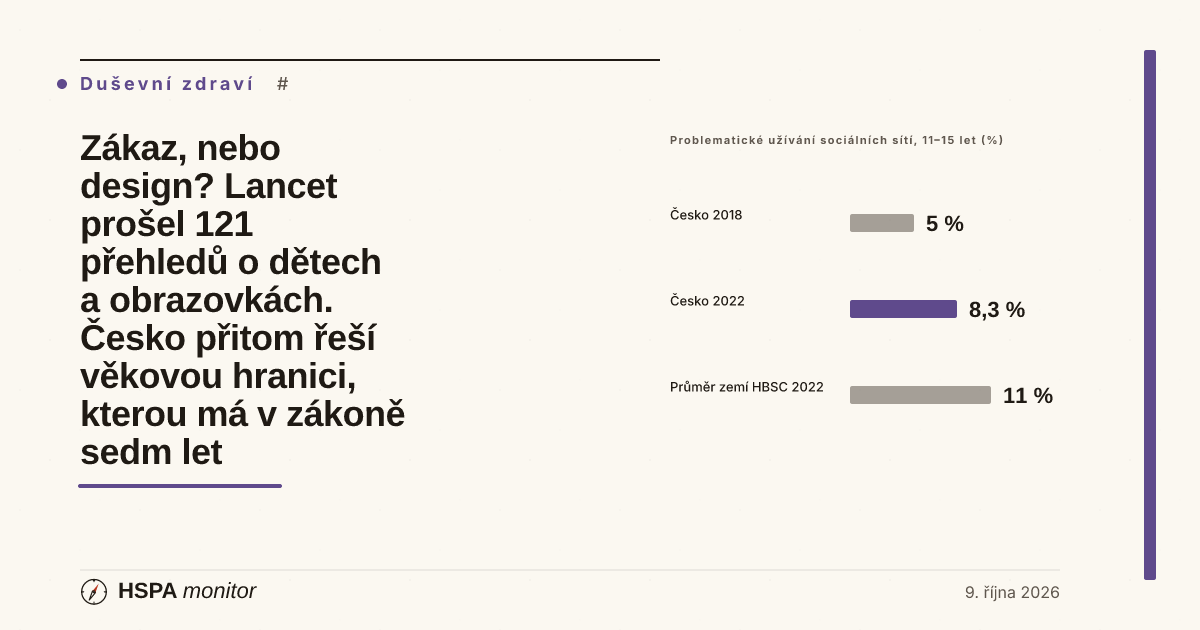
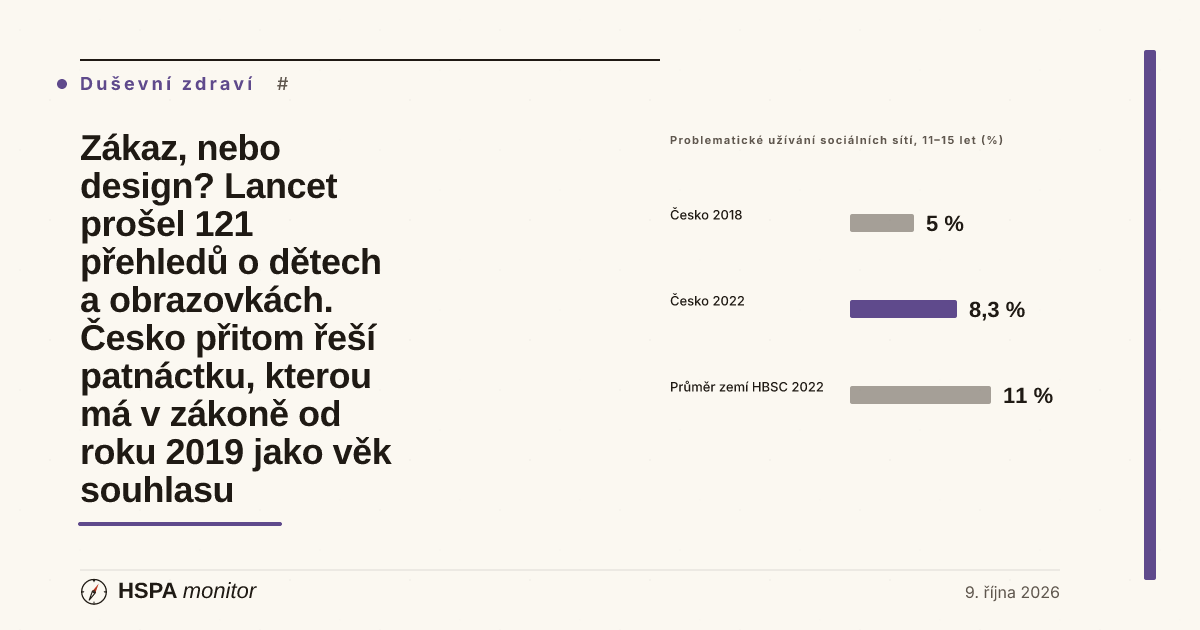
fix(clanky): lancet-ddoh — § 7 zák. 110/2019 je věk souhlasu se zpracováním dat (čl. 8 GDPR), ne zákaz účtů; přeformulován titulek, perex, lead, karta Česka, kapitola a callout (Codex P1)
Claude-Session: https://claude.ai/code/session_01Bu5UdFBsJ6Byh8NpgdnbK7

Changed region(s): [[0.0617, 0.573, 0.3392, 0.8444]]

diff --git a/05_M1_Starter/clanek-lancet-digitalni-determinanty-deti-zakaz-site-2026.html b/05_M1_Starter/clanek-lancet-digitalni-determinanty-deti-zakaz-site-2026.html
@@ -3,12 +3,12 @@
 <head>
 <meta charset="UTF-8">
 <meta name="viewport" content="width=device-width, initial-scale=1.0">
-<title>Zákaz, nebo design? Lancet prošel 121 přehledů o dětech a obrazovkách. Česko přitom řeší věkovou hranici, kterou má v zákoně sedm let · HSPA Monitor</title>
-<meta name="description" content="Série Lancetu o digitálních determinantách zdraví (4. 10. 2026) prošla 121 přehledů nad zhruba devíti miliony lidí do 25 let a říká: problém není čas u obrazovky, ale návykový design, a odpověď má být strukturální. Česká debata mezitím běží o zákazu do 15 let podle Francie, jejíž zákaz 14. srpna zrušila Ústavní rada. Hranici 15 let má Česko v zákoně od roku 2019, jen se nevymáhá. Co říkají česká data HBSC a indikátory HSPA Monitoru.">
+<title>Zákaz, nebo design? Lancet prošel 121 přehledů o dětech a obrazovkách. Česko přitom řeší patnáctku, kterou má v zákoně od roku 2019 jako věk souhlasu · HSPA Monitor</title>
+<meta name="description" content="Série Lancetu o digitálních determinantách zdraví (4. 10. 2026) prošla 121 přehledů nad zhruba devíti miliony lidí do 25 let a říká: problém není čas u obrazovky, ale návykový design, a odpověď má být strukturální. Česká debata mezitím běží o zákazu do 15 let podle Francie, jejíž zákaz 14. srpna zrušila Ústavní rada. Věk 15 let má Česko v zákoně od roku 2019 jako hranici souhlasu se zpracováním dat, ne jako zákaz účtů, a ani tu nikdo neověřuje. Co říkají česká data HBSC a indikátory HSPA Monitoru.">
 <meta name="robots" content="noindex, follow">
 <meta property="og:type" content="article">
-<meta property="og:title" content="Zákaz, nebo design? Lancet prošel 121 přehledů o dětech a obrazovkách. Česko přitom řeší věkovou hranici, kterou má v zákoně sedm let">
-<meta property="og:description" content="Lancet: problém není čas u obrazovky, ale návykový design. Francie zákaz do 15 let přijala a Ústavní rada ho zrušila. EU navrhla KIDS Act. Česko má hranici 15 let od roku 2019 a nevymáhá ji. Co říkají česká data.">
+<meta property="og:title" content="Zákaz, nebo design? Lancet prošel 121 přehledů o dětech a obrazovkách. Česko přitom řeší patnáctku, kterou má v zákoně od roku 2019 jako věk souhlasu">
+<meta property="og:description" content="Lancet: problém není čas u obrazovky, ale návykový design. Francie zákaz do 15 let přijala a Ústavní rada ho zrušila. EU navrhla KIDS Act. Česko má od roku 2019 věk souhlasu 15 let, ne zákaz, a ani ten neověřuje. Co říkají česká data.">
 <meta property="og:locale" content="cs_CZ">
 <meta property="article:published_time" content="2026-10-09">
 <meta property="article:section" content="Duševní zdraví">
@@ -20,7 +20,7 @@
     creation_phase: zadani-uzivatele (vlastník poslal odkaz na sérii Lancetu s tím, že by mohla Florence zajímat v kontextu české debaty o regulaci digitálního prostředí pro děti; po návrhu úhlu zadal „Napiš to hned“)
     primary_sources_added: 12
     visual_elements_added: 5
-    notes: "PRIMÁRNÍ ZDROJE ověřeny 2026-10-09. LANCET: čtyři texty série (4. 10. 2026) ověřeny v PubMed — Shaw et al. PMID 42830093 DOI 10.1016/S0140-6736(26)01292-4; Holly et al. PMID 42830095 DOI 10.1016/S0140-6736(26)01611-9; Prainsack et al. PMID 42830094 DOI 10.1016/S0140-6736(26)01293-6; Duffourc PMID 42830092 DOI 10.1016/S0140-6736(26)01986-0 (abstrakty čteny; plné texty za paywallem — stránka Lancetu vrací 403). Čísla 121 přehledů / ~9 mil. do 25 let, ilustrativní modelace 2,8 mil. zdravých let ztracených depresí a 240 tis. obezitou při > 2 h denně, citace Kickbusch/Holly/Shaw/Prainsack a doporučení jsou z tiskové zprávy Lancetu (EurekAlert 1146057, 4. 10. 2026) — tisková zpráva NEUVÁDÍ podíl nepříznivých asociací; v médiích kolující „více než tři čtvrtiny“ jsme záměrně NEPOUŽILI (neověřitelné bez plného textu). Abstrakt Holly et al. doslova: „more consistently associated with adverse … outcomes“, „causal basis remains uncertain“ — v textu tak formulováno. HBSC ČR: 8,3 % problematických uživatelů 11–15 let 2022 (z 5 % 2018), ~15 000 dětí z 250 škol, 8. nejnižší z 50 zemí — tisková zpráva národního týmu HBSC (FTK UP Olomouc, 10. 5. 2023, M. Kalman); Boniel-Nissim, van den Eijnden, Baďura, Cent Eur J Public Health 2025;33(4):279-284, PMID 41553290, DOI 10.21101/cejph.a8698 (n = 26 450, dívky a starší více; abstrakt bez procent); Helvich et al. Arch Public Health 2026;84, PMID 42304510 (n = 14 588). Regionální průměr HBSC 11 % (2022) ze zprávy WHO Europe 2024 — PDF v IRIS vracelo 403, hodnota převzata z tiskové zprávy WHO 25. 9. 2024 (odkaz ve zdrojích). ZÁKON: § 7 zákona č. 110/2019 Sb. doslova ze zakonyprolidi.cz (účinnost 24. 4. 2019, aktuální znění 1. 8. 2025). EU KIDS ACT: tisková zpráva EK IP/26/1890, Štrasburk 17. 9. 2026 (PDF stažen a vytěžen pdftotext) — < 13 zákaz, 13–15 mini účty přes účet zákonného zástupce s limitem 1 h/den, 15 vlastní účet, zákaz nekonečného scrollu/odměn/nočních notifikací, obrácené důkazní břemeno, šetření do 90 dnů; citace von der Leyen a Virkkunen doslovné. FRANCIE: rozhodnutí Conseil constitutionnel n° 2026-911 DC ze 14. 8. 2026 (web CC) — čl. 1 (zákaz < 15) protiústavní jako „de portée générale“, zásah „n'est pas adaptée, nécessaire et proportionnée“; schválení v Národním shromáždění 21. 7. 2026 (279:81) je ze sekundárních zdrojů (Le Temps, Public Sénat) — v textu jen „definitivně schválil parlament v červenci“. AUSTRÁLIE: Online Safety Amendment (Social Media Minimum Age) Act 2024, účinnost 10. 12. 2025, 16 let; čísla z „Social Media Minimum Age Compliance Update“ eSafety (březen 2026): ~4,7 mil. účtů odstraněno/omezeno k polovině prosince 2025, rodičovský průzkum (n = 898) ~69 % dětí dál má účet na Instagramu/Snapchatu/TikToku — PDF eSafety vracel 503, čísla převzata z reportáží citujících zprávu (Mediaweek, Region Illawarra) → v textu označeno „podle březnové zprávy regulátora, jak ji citují australská média“; K OVĚŘENÍ při auditu proti PDF. ČESKÁ DEBATA: Babiš — ČTK/ČeskéNoviny 8. 2. 2026 (video na sítích, citát doslovný, „do 15 let po vzoru Francie“); Havlíček — tamtéž nepřímo (CNN Prima News: vláda vážně zvažuje, návrh letos); Horáček (NUDZ) — Echo24 11. 2. 2026, citáty doslovné; Odborné stanovisko k návrhům na plošný zákaz sociálních sítí pro děti — PDF upol.cz (metadata 23. 6. 2026), autoři IRTIS MU (Šmahel, Šaradín Lebedíková, Macháčková, Dědková) + E-Bezpečí PdF UP (Kopecký, Voráč) + 20 signatářů vč. HBSC týmu (Kalman, Baďura), CZ.NIC, Linky bezpečí; 5 bodů doslova. INDIKÁTORY literálně z data/indicators.json: sebevrazdy_mladistvi_15_19 6,96 vs EU 4,17 (2023); hospitalizace_pokus_o_sebevrazdu 32,7 (2024); deti_ambulantni_psychiatrie 65 000 (2023); pedopsychiatri_per_100k_deti 6,4 (2023); hazardni_hrani_adolescenti 27,6 vs EU 23 (2024); vydaje_dusevni_zdravi_pct 4 vs EU 7 (2022). KANDIDÁT NOVÉHO INDIKÁTORU (blok F): HBSC problematické užívání sociálních sítí 11–15 let (2018 = 5 %, 2022 = 8,3 %, benchmark HBSC 11 %). KANDIDÁTI PRO RADAR/BAROMETR: EU KIDS Act (COM návrh 17. 9. 2026) do data/legislativa.json jako sledovaná EU norma; výrok Babiše 8. 2. 2026 nemá kvantitativní obsah → do Ověřovny nepatří, do závazků až s textem návrhu. SEBEOMEZENÍ: žádné hodnocení motivů; kauzalita vždy s výhradou Lancetu; čísla z Austrálie a Francie atribuována; článek nedoporučuje politiku, popisuje, co které řešení míří na jakou příčinu. published:false, audit-status draft, bez _review_note — publikovatelný cronem; topical_until 2026-12-31 (vládní návrh „letos“, KIDS Act v EP/Radě)."
+    notes: "PRIMÁRNÍ ZDROJE ověřeny 2026-10-09. LANCET: čtyři texty série (4. 10. 2026) ověřeny v PubMed — Shaw et al. PMID 42830093 DOI 10.1016/S0140-6736(26)01292-4; Holly et al. PMID 42830095 DOI 10.1016/S0140-6736(26)01611-9; Prainsack et al. PMID 42830094 DOI 10.1016/S0140-6736(26)01293-6; Duffourc PMID 42830092 DOI 10.1016/S0140-6736(26)01986-0 (abstrakty čteny; plné texty za paywallem — stránka Lancetu vrací 403). Čísla 121 přehledů / ~9 mil. do 25 let, ilustrativní modelace 2,8 mil. zdravých let ztracených depresí a 240 tis. obezitou při > 2 h denně, citace Kickbusch/Holly/Shaw/Prainsack a doporučení jsou z tiskové zprávy Lancetu (EurekAlert 1146057, 4. 10. 2026) — tisková zpráva NEUVÁDÍ podíl nepříznivých asociací; v médiích kolující „více než tři čtvrtiny“ jsme záměrně NEPOUŽILI (neověřitelné bez plného textu). Abstrakt Holly et al. doslova: „more consistently associated with adverse … outcomes“, „causal basis remains uncertain“ — v textu tak formulováno. HBSC ČR: 8,3 % problematických uživatelů 11–15 let 2022 (z 5 % 2018), ~15 000 dětí z 250 škol, 8. nejnižší z 50 zemí — tisková zpráva národního týmu HBSC (FTK UP Olomouc, 10. 5. 2023, M. Kalman); Boniel-Nissim, van den Eijnden, Baďura, Cent Eur J Public Health 2025;33(4):279-284, PMID 41553290, DOI 10.21101/cejph.a8698 (n = 26 450, dívky a starší více; abstrakt bez procent); Helvich et al. Arch Public Health 2026;84, PMID 42304510 (n = 14 588). Regionální průměr HBSC 11 % (2022) ze zprávy WHO Europe 2024 — PDF v IRIS vracelo 403, hodnota převzata z tiskové zprávy WHO 25. 9. 2024 (odkaz ve zdrojích). ZÁKON: § 7 zákona č. 110/2019 Sb. doslova ze zakonyprolidi.cz (účinnost 24. 4. 2019, aktuální znění 1. 8. 2025). Po Codex P1 (PR #1262): § 7 je věk SOUHLASU se zpracováním dat (adaptace čl. 8 GDPR, jen zpracování na základě souhlasu, pod 15 souhlas zákonného zástupce), NE zákaz účtů — titulek, perex, lead, karta Česka, kapitola a callout přeformulovány; článek pravidlo se zákazem srovnává, neztotožňuje. EU KIDS ACT: tisková zpráva EK IP/26/1890, Štrasburk 17. 9. 2026 (PDF stažen a vytěžen pdftotext) — < 13 zákaz, 13–15 mini účty přes účet zákonného zástupce s limitem 1 h/den, 15 vlastní účet, zákaz nekonečného scrollu/odměn/nočních notifikací, obrácené důkazní břemeno, šetření do 90 dnů; citace von der Leyen a Virkkunen doslovné. FRANCIE: rozhodnutí Conseil constitutionnel n° 2026-911 DC ze 14. 8. 2026 (web CC) — čl. 1 (zákaz < 15) protiústavní jako „de portée générale“, zásah „n'est pas adaptée, nécessaire et proportionnée“; schválení v Národním shromáždění 21. 7. 2026 (279:81) je ze sekundárních zdrojů (Le Temps, Public Sénat) — v textu jen „definitivně schválil parlament v červenci“. AUSTRÁLIE: Online Safety Amendment (Social Media Minimum Age) Act 2024, účinnost 10. 12. 2025, 16 let; čísla z „Social Media Minimum Age Compliance Update“ eSafety (březen 2026): ~4,7 mil. účtů odstraněno/omezeno k polovině prosince 2025, rodičovský průzkum (n = 898) ~69 % dětí dál má účet na Instagramu/Snapchatu/TikToku — PDF eSafety vracel 503, čísla převzata z reportáží citujících zprávu (Mediaweek, Region Illawarra) → v textu označeno „podle březnové zprávy regulátora, jak ji citují australská média“; K OVĚŘENÍ při auditu proti PDF. ČESKÁ DEBATA: Babiš — ČTK/ČeskéNoviny 8. 2. 2026 (video na sítích, citát doslovný, „do 15 let po vzoru Francie“); Havlíček — tamtéž nepřímo (CNN Prima News: vláda vážně zvažuje, návrh letos); Horáček (NUDZ) — Echo24 11. 2. 2026, citáty doslovné; Odborné stanovisko k návrhům na plošný zákaz sociálních sítí pro děti — PDF upol.cz (metadata 23. 6. 2026), autoři IRTIS MU (Šmahel, Šaradín Lebedíková, Macháčková, Dědková) + E-Bezpečí PdF UP (Kopecký, Voráč) + 20 signatářů vč. HBSC týmu (Kalman, Baďura), CZ.NIC, Linky bezpečí; 5 bodů doslova. INDIKÁTORY literálně z data/indicators.json: sebevrazdy_mladistvi_15_19 6,96 vs EU 4,17 (2023); hospitalizace_pokus_o_sebevrazdu 32,7 (2024); deti_ambulantni_psychiatrie 65 000 (2023); pedopsychiatri_per_100k_deti 6,4 (2023); hazardni_hrani_adolescenti 27,6 vs EU 23 (2024); vydaje_dusevni_zdravi_pct 4 vs EU 7 (2022). KANDIDÁT NOVÉHO INDIKÁTORU (blok F): HBSC problematické užívání sociálních sítí 11–15 let (2018 = 5 %, 2022 = 8,3 %, benchmark HBSC 11 %). KANDIDÁTI PRO RADAR/BAROMETR: EU KIDS Act (COM návrh 17. 9. 2026) do data/legislativa.json jako sledovaná EU norma; výrok Babiše 8. 2. 2026 nemá kvantitativní obsah → do Ověřovny nepatří, do závazků až s textem návrhu. SEBEOMEZENÍ: žádné hodnocení motivů; kauzalita vždy s výhradou Lancetu; čísla z Austrálie a Francie atribuována; článek nedoporučuje politiku, popisuje, co které řešení míří na jakou příčinu. published:false, audit-status draft, bez _review_note — publikovatelný cronem; topical_until 2026-12-31 (vládní návrh „letos“, KIDS Act v EP/Radě)."
 -->
 <meta name="article:audit-status" content="draft">
 <link rel="stylesheet" href="src/styles.min.css">
@@ -54,9 +54,9 @@
         <span class="article-tag">Duševní zdraví</span>
         <span class="article-tag article-tag-muted">děti a dospívající · sociální sítě · digitální determinanty zdraví · EU KIDS Act · HBSC</span>
       </div>
-      <h1 class="article-title">Zákaz, nebo design? Lancet prošel 121 přehledů o dětech a obrazovkách. Česko přitom řeší věkovou hranici, kterou má v zákoně sedm let</h1>
+      <h1 class="article-title">Zákaz, nebo design? Lancet prošel 121 přehledů o dětech a obrazovkách. Česko přitom řeší patnáctku, kterou má v zákoně od roku 2019 jako věk souhlasu</h1>
       <p class="article-deck">
-        Časopis The Lancet vydal 4. října 2026 sérii o <strong>digitálních determinantách zdraví</strong>: tři odborné články a komentář, uprostřed nich zastřešující přehled <strong>121 přehledových studií</strong> nad zhruba devíti miliony lidí do 25 let. Závěr není, že obrazovky škodí všem a vždy. Je ostřejší: vazby mezi digitálními médii a zdravím dětí jsou podle autorů „skromné" a stojí na důkazech nízké jistoty, ale konzistentně míří k horšímu, a to u <strong>návykového vzorce užívání, ne u počtu hodin</strong>. Odpověď má být strukturální: testovat produkty před uvedením, pustit vědce k datům platforem, upravit design. Česká debata mezitím od února běží o zákazu sociálních sítí do 15 let „po vzoru Francie". Francouzský zákaz 14. srpna zrušila Ústavní rada, Evropská komise 17. září navrhla KIDS Act s hranicí 15 let a zákazem návykových prvků a čtyřiadvacet českých akademiků v červnu napsalo, že plošný zákaz je „falešný pocit bezpečí". Hranici 15 let má přitom Česko v zákoně od roku 2019. Jen ji nikdo nevymáhá.
+        Časopis The Lancet vydal 4. října 2026 sérii o <strong>digitálních determinantách zdraví</strong>: tři odborné články a komentář, uprostřed nich zastřešující přehled <strong>121 přehledových studií</strong> nad zhruba devíti miliony lidí do 25 let. Závěr není, že obrazovky škodí všem a vždy. Je ostřejší: vazby mezi digitálními médii a zdravím dětí jsou podle autorů „skromné" a stojí na důkazech nízké jistoty, ale konzistentně míří k horšímu, a to u <strong>návykového vzorce užívání, ne u počtu hodin</strong>. Odpověď má být strukturální: testovat produkty před uvedením, pustit vědce k datům platforem, upravit design. Česká debata mezitím od února běží o zákazu sociálních sítí do 15 let „po vzoru Francie". Francouzský zákaz 14. srpna zrušila Ústavní rada, Evropská komise 17. září navrhla KIDS Act s hranicí 15 let a zákazem návykových prvků a čtyřiadvacet českých akademiků v červnu napsalo, že plošný zákaz je „falešný pocit bezpečí". Číslo 15 má přitom Česko v zákoně od roku 2019, ne jako zákaz účtů, ale jako věk, pod kterým dítě nemůže samo souhlasit se zpracováním svých dat a potřebuje souhlas rodiče. Platformy ten věk neověřují a nikdo to po nich nevymáhá.
       </p>
       <div class="article-meta">
         <span class="article-meta-date">9. října 2026</span>
@@ -70,7 +70,7 @@
     <div class="article-body">
 
       <p class="article-lead">
-        Třináctiletá dívka z Olomouce má v telefonu tři aplikace, které jí každý večer pošlou dohromady několik desítek upozornění. Žádnou z nich si podle českého práva nesměla založit bez souhlasu rodičů: zákon o zpracování osobních údajů z roku 2019 říká, že dítě může samo udělit souhlas službám informační společnosti až od patnácti let. Při registraci stačilo zadat jiný rok narození. V únoru 2026 premiér oznámil, že je pro zákaz sociálních sítí dětem do patnácti let, protože „je to strašně škodlivé". V říjnu vyšla v Lancetu nejrozsáhlejší syntéza důkazů, jaká o dětech a digitálních médiích existuje. Neptá se, kolik hodin dívka u telefonu tráví. Ptá se, kdo navrhl těch několik desítek upozornění a proč.
+        Třináctiletá dívka z Olomouce má v telefonu tři aplikace, které jí každý večer pošlou dohromady několik desítek upozornění. U každé z nich při registraci odklikla souhlas se zpracováním svých dat, který podle českého práva sama dát nemůže: zákon o zpracování osobních údajů z roku 2019 říká, že dítě ho může službám informační společnosti udělit až od patnácti let, mladší potřebuje souhlas rodiče. Stačilo zadat jiný rok narození a nikdo se neptal. V únoru 2026 premiér oznámil, že je pro zákaz sociálních sítí dětem do patnácti let, protože „je to strašně škodlivé". V říjnu vyšla v Lancetu nejrozsáhlejší syntéza důkazů, jaká o dětech a digitálních médiích existuje. Neptá se, kolik hodin dívka u telefonu tráví. Ptá se, kdo navrhl těch několik desítek upozornění a proč.
       </p>
 
       <figure class="av-figure" aria-labelledby="avCntH">
@@ -93,8 +93,8 @@
           </div>
           <div class="av-counter-block av-counter-block-neutral">
             <span class="av-counter" data-value="15">15</span>
-            <span class="av-counter-label">let je věk pro samostatný souhlas se zpracováním dat podle českého zákona</span>
-            <span class="av-counter-foot">§ 7 zákona č. 110/2019 Sb., účinný od 24. 4. 2019; stejnou hranici navrhuje EU KIDS Act</span>
+            <span class="av-counter-label">let je věk, od kterého dítě v ČR samo souhlasí se zpracováním svých dat online</span>
+            <span class="av-counter-foot">§ 7 zákona č. 110/2019 Sb. (adaptace čl. 8 GDPR), účinný od 24. 4. 2019; není to zákaz účtů. EU KIDS Act navrhuje 15 let pro vlastní účet</span>
           </div>
         </div>
         <p class="av-figure-note">Zdroje: tisková zpráva The Lancet (4. 10. 2026) a Holly et al., Lancet 2026; HBSC ČR, FTK UP Olomouc (2023); Eurostat přes data/indicators.json; zákon č. 110/2019 Sb.</p>
@@ -183,20 +183,20 @@
             <p class="av-stack-body"><strong class="av-good">Míří na věk i design zároveň.</strong> Do 13 let bez sociálních sítí, 13 až 15 let jen „mini účty" přes účet rodiče s limitem hodiny denně, vlastní účet od 15. K tomu pro všechny služby do 18 let zákaz návykových prvků: nekonečného scrollu bez zastavení, odměnových triků, nočních notifikací, profilovaných doporučení, a chatboti vypnutí ve výchozím stavu. Důkazní břemeno se obrací na platformy, šetření má trvat do 90 dnů.</p>
           </li>
           <li class="av-stack-item av-stack-item-neutral">
-            <h4 class="av-stack-h">Česko: hranice 15 let pro souhlas se zpracováním dat <span class="av-stack-who">(platí od 2019, nevymáhá se)</span></h4>
-            <p class="av-stack-meta">§ 7 zákona č. 110/2019 Sb., o zpracování osobních údajů · účinnost 24. 4. 2019 · vládní návrh zákazu k 9. 10. 2026 ve VeKLEP není</p>
-            <p class="av-stack-body"><strong class="av-mut">Papír bez nástroje.</strong> Dítě do 15 let nemůže samo udělit souhlas službám informační společnosti, ověřování věku ale zákon neřeší a platformy ho nedělají. Akademické stanovisko z června žádá právě vymáhání této hranice „bezpečně, přiměřeně a bez zbytečného sběru citlivých dat".</p>
+            <h4 class="av-stack-h">Česko: věk souhlasu 15 let, žádný zákaz účtů <span class="av-stack-who">(platí od 2019, neověřuje se)</span></h4>
+            <p class="av-stack-meta">§ 7 zákona č. 110/2019 Sb., o zpracování osobních údajů (čl. 8 GDPR) · účinnost 24. 4. 2019 · vládní návrh zákazu k 9. 10. 2026 ve VeKLEP není</p>
+            <p class="av-stack-body"><strong class="av-mut">Jiné pravidlo než zákaz, a bez nástroje.</strong> Dítě do 15 let nemůže samo udělit souhlas se zpracováním svých dat službám informační společnosti; za něj ho může dát rodič a pravidlo se týká jen zpracování založeného na souhlasu. Účet jako takový zákon nezakazuje. Ověřování věku ani vyžádání souhlasu rodiče ale platformy nedělají a nikdo to po nich nevymáhá. Akademické stanovisko z června žádá právě vymáhání těchto pravidel „bezpečně, přiměřeně a bez zbytečného sběru citlivých dat".</p>
           </li>
         </ol>
         <p class="av-figure-note">Zdroje: Conseil constitutionnel, décision n° 2026-911 DC; eSafety Commissioner, Social Media Minimum Age Compliance Update (březen 2026) dle Mediaweek; Evropská komise, IP/26/1890; zákon č. 110/2019 Sb.; Odborné stanovisko IRTIS MU a E-Bezpečí UP. Hodnocení v prvním slově každé karty je čtení redakce.</p>
       </figure>
 
-      <h3>Hranice, kterou Česko má sedm let</h3>
+      <h3>Patnáctka, kterou Česko má sedm let, a co ve skutečnosti znamená</h3>
       <p>
-        Nejméně známý fakt celé debaty je, že Česko věkovou hranici pro sociální sítě nemusí zavádět. Má ji. Paragraf 7 zákona č. 110/2019 Sb. zní doslova: „Dítě nabývá způsobilosti k udělení souhlasu se zpracováním osobních údajů v souvislosti s nabídkou služeb informační společnosti přímo jemu dovršením patnáctého roku věku." Je to česká adaptace evropského nařízení o ochraně osobních údajů, které členským státům dovoluje zvolit hranici mezi 13 a 16 lety. Sněmovna v roce 2019 odmítla snížení na 13 let, běžné jinde v Evropě, a zůstala na patnácti, tedy přesně na čísle, o kterém se dnes mluví jako o novince.
+        Nejméně známý fakt celé debaty je, že číslo 15 už v českém právu je, a to od roku 2019. Není to zákaz. Paragraf 7 zákona č. 110/2019 Sb. zní doslova: „Dítě nabývá způsobilosti k udělení souhlasu se zpracováním osobních údajů v souvislosti s nabídkou služeb informační společnosti přímo jemu dovršením patnáctého roku věku." Je to česká adaptace článku 8 evropského nařízení o ochraně osobních údajů, které členským státům dovoluje zvolit věk mezi 13 a 16 lety. Sněmovna v roce 2019 odmítla snížení na 13 let, běžné jinde v Evropě, a zůstala na patnácti. Pravidlo říká dvě věci a nic víc: pod patnáct let nemůže dítě samo platně souhlasit se zpracováním svých dat online a souhlas za něj musí dát rodič; týká se jen zpracování, které stojí na souhlasu. Účet na sociální síti zákon dítěti nezakazuje. V praxi to znamená, že platforma, která chce data třináctileté uživatelky zpracovávat na základě souhlasu, má mít souhlas jejího rodiče, a tedy má vědět, že jí je třináct.
       </p>
       <p>
-        Rozdíl mezi rokem 2019 a rokem 2026 není v hranici, ale v nástroji. Zákon o zpracování osobních údajů říká, kdo smí souhlasit; neříká, jak má platforma věk ověřit, a nikdo to po ní nevymáhá. Právě sem míří jak akademické stanovisko, tak návrh Komise: KIDS Act počítá s evropskou aplikací pro ověření věku, která neuchovává doklady ani biometrii, a s odhadem věku u existujících účtů podle „rozumných indicií". Pro Česko z toho plyne praktická otázka, kterou debata o zákazu přeskakuje: pokud stát nedokáže vymoci hranici 15 let, kterou má, čím by vymohl hranici 15 let, kterou by přidal?
+        Od navrhovaného zákazu se tedy dnešní pravidlo liší obsahem i nástrojem. Obsahem: souhlas rodiče není zákaz účtu. Nástrojem: zákon říká, kdo smí souhlasit, ale neříká, jak má platforma věk ověřit, a nikdo to po ní nevymáhá. Právě sem míří jak akademické stanovisko, tak návrh Komise: KIDS Act počítá s evropskou aplikací pro ověření věku, která neuchovává doklady ani biometrii, a s odhadem věku u existujících účtů podle „rozumných indicií". Pro Česko z toho plyne praktická otázka, kterou debata o zákazu přeskakuje: pokud stát sedm let nedokáže vymoci, aby platformy u dětí do 15 let zjišťovaly věk a ptaly se rodičů, čím by vymohl zákaz, který na stejném ověření věku stojí?
       </p>
 
       <h3>Co o českých dětech víme a co ne</h3>
@@ -249,11 +249,11 @@
         Postavíme-li vedle sebe Lancet, francouzskou Ústavní radu, australského regulátora, Komisi a čtyřiadvacet českých akademiků, vychází z toho jedna shoda a jeden spor. Shoda: rizika pro děti jsou reálná a nejsou věcí jednotlivé rodiny, ale toho, jak jsou produkty navržené. Spor: zda na design dosáhne věková hranice. Francie ukázala, že plošný zákaz může narazit na ústavu. Austrálie ukazuje, že hranice bez ověření věku odstraní miliony účtů a většinu dětí na sítích nechá. Komise proto navrhuje obojí najednou a k hranici přidává zákaz konkrétních funkcí. Lancet jde ještě dál a chce, aby firmy prokazovaly bezpečnost funkcí před uvedením, jako to dělá farmacie.
       </p>
       <p>
-        Pro Česko z toho plynou tři ověřitelné věci. Za prvé <strong>vládní návrh</strong>: vicepremiér Havlíček mluvil o letošku; pokud přijde, bude se dát přečíst, zda kopíruje zrušený francouzský článek 1, nebo evropský KIDS Act. Za druhé <strong>vymáhání hranice, která platí</strong>: Úřad pro ochranu osobních údajů má od roku 2019 zákon, podle kterého děti do 15 let bez souhlasu rodičů na sítích být nemají; kolik řízení za sedm let vedl, je otázka na jednu žádost o informace. Za třetí <strong>data</strong>: HBSC sbírá novou vlnu, a pokud podíl problematických uživatelů poroste z 8,3 % dál, bude to první české číslo, podle kterého se dá poznat, jestli jakákoli politika zabírá. Portál ho zařadí mezi indikátory, jakmile vyjde.
+        Pro Česko z toho plynou tři ověřitelné věci. Za prvé <strong>vládní návrh</strong>: vicepremiér Havlíček mluvil o letošku; pokud přijde, bude se dát přečíst, zda kopíruje zrušený francouzský článek 1, nebo evropský KIDS Act. Za druhé <strong>vymáhání hranice, která platí</strong>: Úřad pro ochranu osobních údajů má od roku 2019 zákon, podle kterého platformy nesmějí zpracovávat data dětí do 15 let na základě souhlasu, který dítě dalo samo bez rodiče; kolik řízení za sedm let kvůli tomu vedl, je otázka na jednu žádost o informace. Za třetí <strong>data</strong>: HBSC sbírá novou vlnu, a pokud podíl problematických uživatelů poroste z 8,3 % dál, bude to první české číslo, podle kterého se dá poznat, jestli jakákoli politika zabírá. Portál ho zařadí mezi indikátory, jakmile vyjde.
       </p>
 
       <div class="av-callout" role="note">
-        <p><strong>Co si odnést.</strong> Nejrozsáhlejší syntéza důkazů o dětech a digitálních médiích říká, že škody jsou pravděpodobné, skromné a vázané na návykový design, ne na hodiny. Česká debata se vede o zákazu podle modelu, který ve Francii neprošel ústavním přezkumem, a o hranici 15 let, kterou má Česko v zákoně od roku 2019 a nevymáhá. Evropský návrh míří na věk i design zároveň. Který z těch tří přístupů česká vláda zvolí, se pozná z textu, až nějaký bude. Zda pomůže, se pozná z HBSC.</p>
+        <p><strong>Co si odnést.</strong> Nejrozsáhlejší syntéza důkazů o dětech a digitálních médiích říká, že škody jsou pravděpodobné, skromné a vázané na návykový design, ne na hodiny. Česká debata se vede o zákazu podle modelu, který ve Francii neprošel ústavním přezkumem, a o čísle 15, které má Česko v zákoně od roku 2019 jako věk souhlasu se zpracováním dat, ne jako zákaz, a ani to neověřuje. Evropský návrh míří na věk i design zároveň. Který z těch tří přístupů česká vláda zvolí, se pozná z textu, až nějaký bude. Zda pomůže, se pozná z HBSC.</p>
       </div>
 
     </div>
@@ -296,7 +296,7 @@
       <div class="sources-group">
         <h5 class="sources-group-h">Právo a politika</h5>
         <ul class="article-sources-list">
-          <li><strong>Zákon č. 110/2019 Sb., o zpracování osobních údajů, § 7</strong> — „Dítě nabývá způsobilosti k udělení souhlasu se zpracováním osobních údajů v souvislosti s nabídkou služeb informační společnosti přímo jemu dovršením patnáctého roku věku."; účinnost 24. 4. 2019, aktuální znění od 1. 8. 2025. <a href="https://www.zakonyprolidi.cz/cs/2019-110" target="_blank" rel="noopener">zakonyprolidi.cz ↗</a></li>
+          <li><strong>Zákon č. 110/2019 Sb., o zpracování osobních údajů, § 7</strong> — „Dítě nabývá způsobilosti k udělení souhlasu se zpracováním osobních údajů v souvislosti s nabídkou služeb informační společnosti přímo jemu dovršením patnáctého roku věku."; účinnost 24. 4. 2019, aktuální znění od 1. 8. 2025. Pravidlo se týká souhlasu se zpracováním osobních údajů (adaptace čl. 8 GDPR), ne práva mít účet; pod 15 let souhlas uděluje zákonný zástupce. <a href="https://www.zakonyprolidi.cz/cs/2019-110#p7" target="_blank" rel="noopener">zakonyprolidi.cz ↗</a> · <a href="https://eur-lex.europa.eu/legal-content/CS/TXT/?uri=CELEX%3A02016R0679-20160504" target="_blank" rel="noopener">GDPR, čl. 8 ↗</a></li>
           <li><strong>Evropská komise — EU KIDS Act to restrict social media platforms' access to children in the EU</strong>, tisková zpráva IP/26/1890, Štrasburk 17. 9. 2026 (čtyři pilíře, hranice 13 a 15 let, mini účty s limitem hodiny denně, zákaz návykových prvků, ověřování věku, obrácené důkazní břemeno, šetření do 90 dnů; citace U. von der Leyen a H. Virkkunen). <a href="https://ec.europa.eu/commission/presscorner/api/files/document/print/en/ip_26_1890/IP_26_1890_EN.pdf" target="_blank" rel="noopener">PDF ↗</a> · <a href="https://digital-strategy.ec.europa.eu/en/news/eu-kids-act-restrict-social-media-platforms-access-children-eu" target="_blank" rel="noopener">digital-strategy.ec.europa.eu ↗</a></li>
           <li><strong>Conseil constitutionnel — Décision n° 2026-911 DC du 14 août 2026</strong>, Loi visant à protéger les mineurs des risques auxquels les expose l'utilisation des réseaux sociaux; čl. 1 (zákaz přístupu nezletilých do 15 let) protiústavní jako zákaz „de portée générale", zásah do svobody projevu a komunikace „n'est pas adaptée, nécessaire et proportionnée à l'objectif poursuivi". <a href="https://www.conseil-constitutionnel.fr/decision/2026/2026911DC.htm" target="_blank" rel="noopener">conseil-constitutionnel.fr ↗</a></li>
           <li><strong>eSafety Commissioner (Austrálie) — Social Media Minimum Age Compliance Update, March 2026</strong> (Online Safety Amendment (Social Media Minimum Age) Act 2024, účinnost 10. 12. 2025; ~4,7 mil. účtů odstraněno nebo omezeno; průzkum rodičů n = 898). Dokument v době psaní nebyl dostupný (server vracel chybu), čísla přebíráme z reportáží, které zprávu citují. <a href="https://www.esafety.gov.au/sites/default/files/2026-03/SocialMediaMinimumAgeComplianceUpdateMarch2026.pdf" target="_blank" rel="noopener">PDF eSafety ↗</a> · <a href="https://www.mediaweek.com.au/esafety-puts-five-social-platforms-on-notice" target="_blank" rel="noopener">Mediaweek ↗</a></li>
@@ -320,7 +320,7 @@
         </ul>
       </div>
       <p class="article-sources-disclaimer">
-        <strong>Pozn. k údajům:</strong> Čísla ze série Lancetu (121 přehledů, ~9 milionů, ilustrativní modelace zátěže) a citace autorů přebíráme z tiskové zprávy časopisu a z abstraktů ověřených v PubMed; plné texty jsou za placeným přístupem a stránka série strojové čtení nepovoluje. Podíl nepříznivých asociací, který kolují v médiích, neuvádíme, protože jsme ho nemohli ověřit. Česká data HBSC jsou podle tiskové zprávy národního týmu (2023) a recenzovaných analýz téže vlny; regionální průměr podle tiskové zprávy WHO Europe (2024). Australská čísla jsou ze zprávy regulátora eSafety z března 2026 tak, jak ji citují australská média; samotný dokument v době psaní nebyl dostupný. Hodnocení v kartách („nevstoupil v účinnost", „funguje částečně", „míří na věk i design", „papír bez nástroje") je čtení redakce. Hodnoty indikátorů odpovídají datovému kontraktu HSPA Monitoru ke dni vydání. Článek nedoporučuje konkrétní politiku; popisuje, na jakou příčinu které řešení míří a co se o něm ví.
+        <strong>Pozn. k údajům:</strong> Čísla ze série Lancetu (121 přehledů, ~9 milionů, ilustrativní modelace zátěže) a citace autorů přebíráme z tiskové zprávy časopisu a z abstraktů ověřených v PubMed; plné texty jsou za placeným přístupem a stránka série strojové čtení nepovoluje. Podíl nepříznivých asociací, který kolují v médiích, neuvádíme, protože jsme ho nemohli ověřit. Česká data HBSC jsou podle tiskové zprávy národního týmu (2023) a recenzovaných analýz téže vlny; regionální průměr podle tiskové zprávy WHO Europe (2024). Australská čísla jsou ze zprávy regulátora eSafety z března 2026 tak, jak ji citují australská média; samotný dokument v době psaní nebyl dostupný. Hodnocení v kartách („nevstoupil v účinnost", „funguje částečně", „míří na věk i design", „papír bez nástroje") je čtení redakce. Hodnoty indikátorů odpovídají datovému kontraktu HSPA Monitoru ke dni vydání. Hranice 15 let v zákoně č. 110/2019 Sb. je věk souhlasu se zpracováním osobních údajů (čl. 8 GDPR), nikoli zákaz účtů; článek ji s navrhovaným zákazem srovnává, ne ztotožňuje. Článek nedoporučuje konkrétní politiku; popisuje, na jakou příčinu které řešení míří a co se o něm ví.
       </p>
     </section>
 
